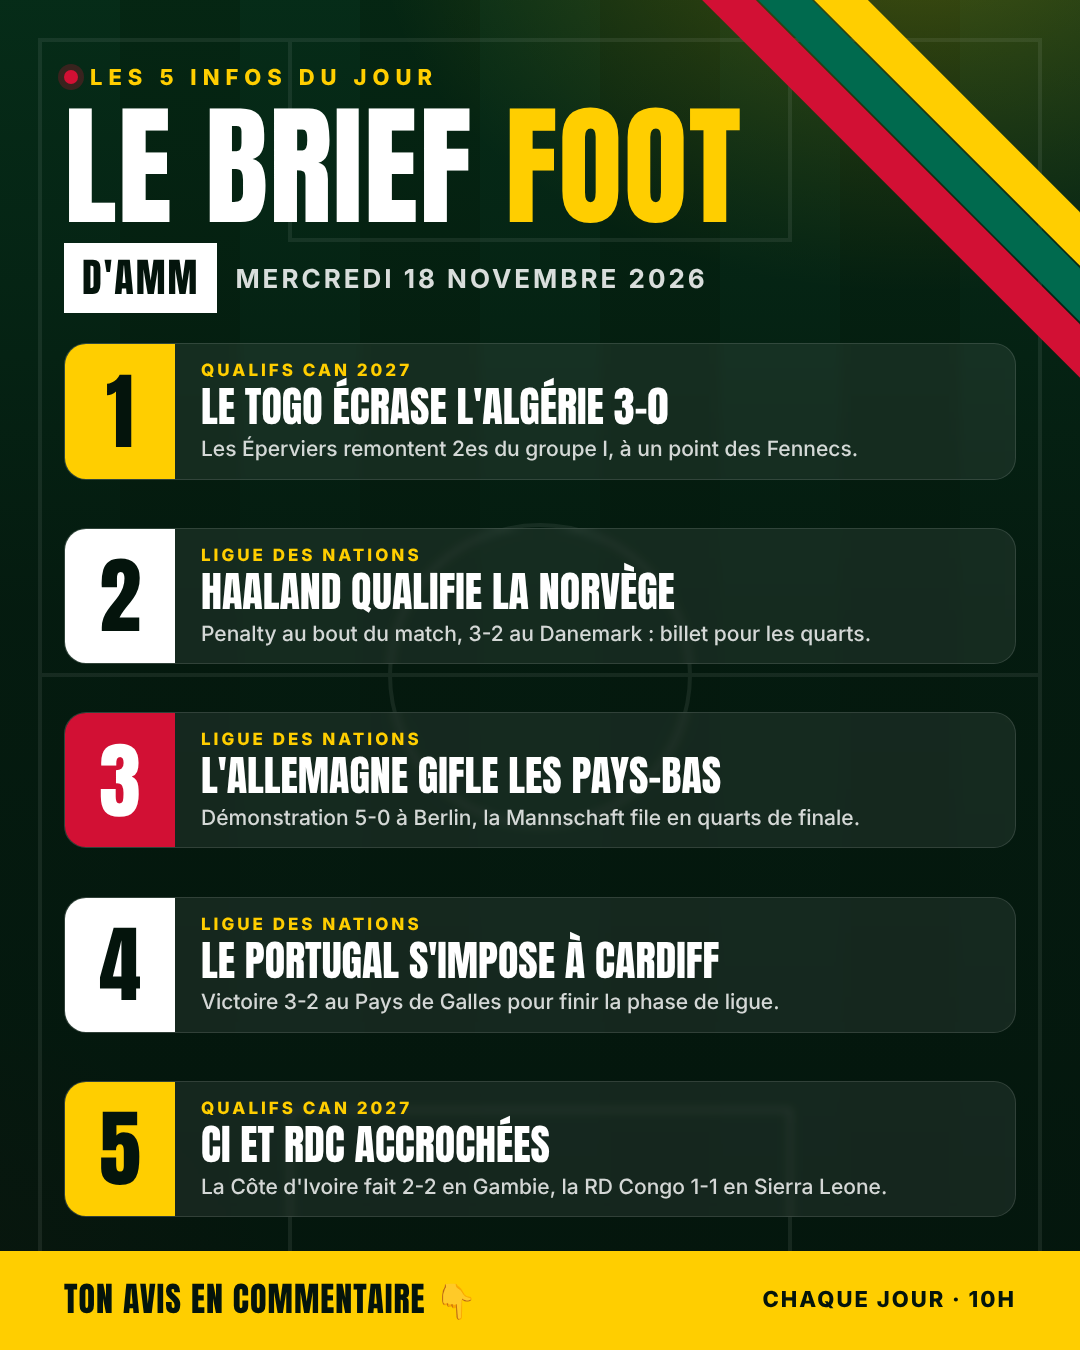
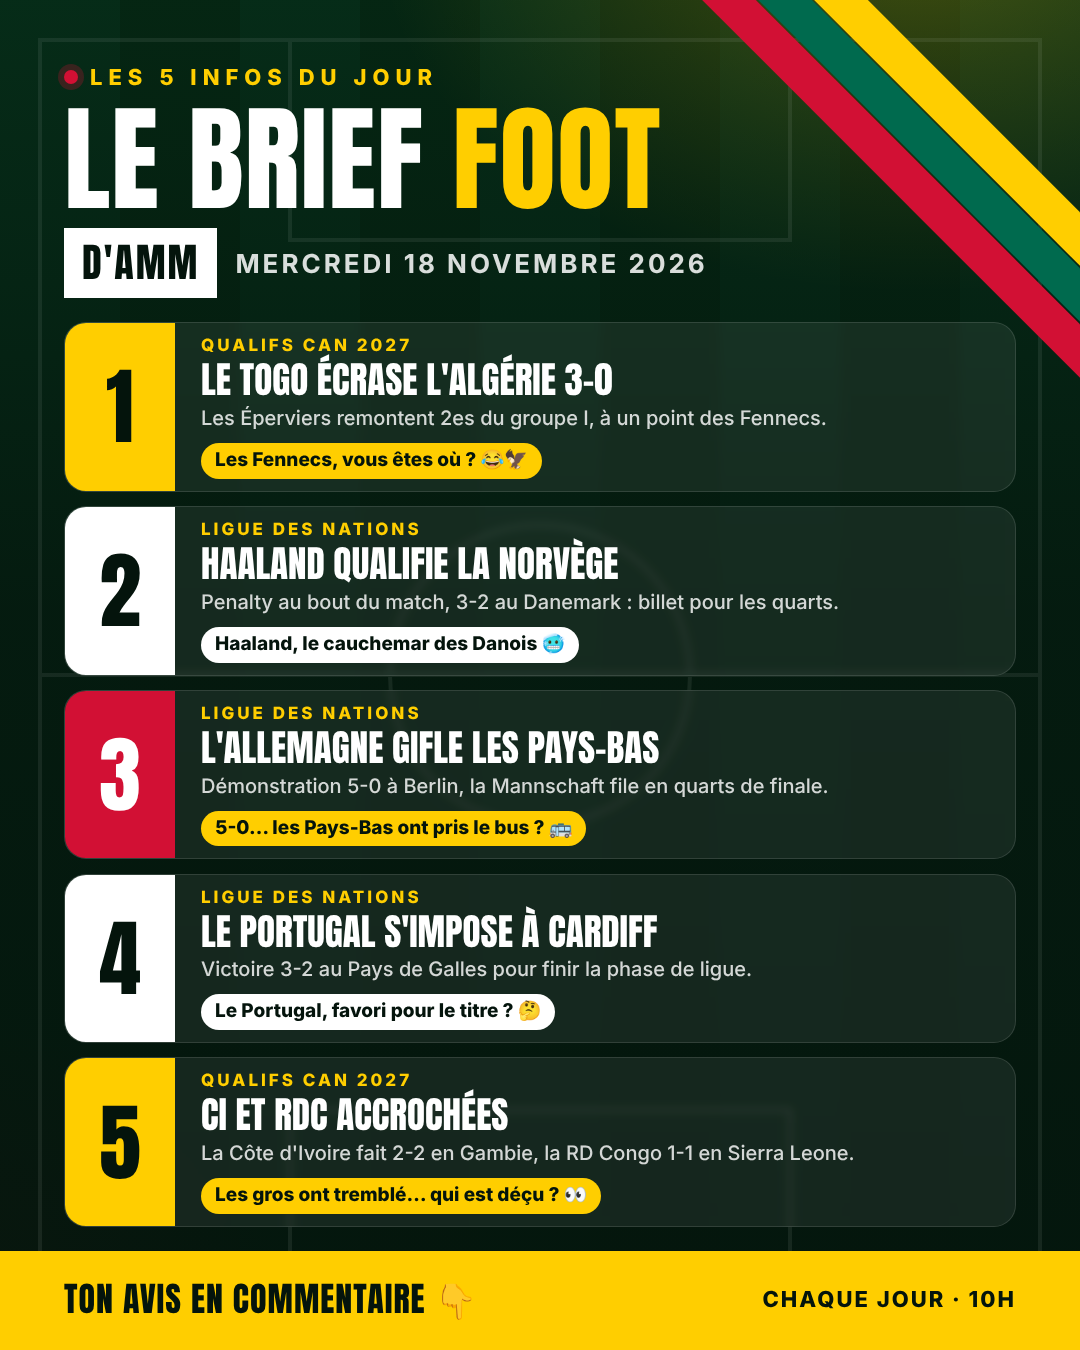
Affiche test v2 : petites phrases pour faire réagir
Claude-Session: https://claude.ai/code/session_01HynAV7bBRwUTDnQ55ogJ5y

Changed region(s): [[0.0611, 0.0622, 0.825, 0.9333]]

diff --git a/outil/affiche.html b/outil/affiche.html
@@ -43,7 +43,7 @@
   .kicker .dot { width: 14px; height: 14px; border-radius: 50%; background: #d21034; box-shadow: 0 0 0 6px rgba(210,16,52,.25); }
   h1 {
     font-family: 'Anton', sans-serif; font-weight: 400;
-    font-size: 132px; line-height: .95; letter-spacing: 1px; margin-top: 14px; text-transform: uppercase;
+    font-size: 116px; line-height: .95; letter-spacing: 1px; margin-top: 14px; text-transform: uppercase;
   }
   h1 .y { color: #ffce00; }
   .sub { display: flex; align-items: center; gap: 18px; margin-top: 14px; }
@@ -53,7 +53,7 @@
   }
   .sub .date { font-size: 26px; font-weight: 700; color: rgba(255,255,255,.85); text-transform: uppercase; letter-spacing: 3px; }
 
-  .list { margin: 30px 0 34px; display: flex; flex-direction: column; justify-content: space-between; flex: 1; }
+  .list { margin: 24px 0 24px; gap: 14px; display: flex; flex-direction: column; justify-content: space-between; flex: 1; }
   .item {
     display: flex; align-items: stretch; gap: 0;
     background: rgba(255,255,255,.07);
@@ -69,10 +69,16 @@
   .item:nth-child(3) .num { background: #d21034; color: #fff; }
   .item:nth-child(4) .num { background: #ffffff; }
   .item:nth-child(5) .num { background: #ffce00; }
-  .txt { padding: 16px 26px; display: flex; flex-direction: column; justify-content: center; gap: 6px; }
+  .txt { padding: 12px 26px; display: flex; flex-direction: column; justify-content: center; gap: 6px; }
   .tag { font-size: 17px; font-weight: 800; letter-spacing: 3px; text-transform: uppercase; color: #ffce00; }
-  .title { font-family: 'Anton', sans-serif; font-size: 42px; line-height: 1.02; text-transform: uppercase; }
-  .detail { font-size: 21px; line-height: 1.3; color: rgba(255,255,255,.82); font-weight: 500; }
+  .title { font-family: 'Anton', sans-serif; font-size: 37px; line-height: 1.02; text-transform: uppercase; }
+  .detail { font-size: 20px; line-height: 1.3; color: rgba(255,255,255,.82); font-weight: 500; }
+  .react {
+    align-self: flex-start; margin-top: 6px;
+    font-size: 19px; font-weight: 800; line-height: 1.2;
+    color: #04140c; background: #fff; padding: 6px 14px 7px; border-radius: 999px;
+  }
+  .item:nth-child(odd) .react { background: #ffce00; }
 
   .foot {
     margin: 0 -64px; padding: 22px 64px 26px;

diff --git a/outil/generer.py b/outil/generer.py
@@ -6,7 +6,7 @@ Format du JSON :
 {
   "date": "Mercredi 18 novembre 2026",
   "items": [
-    {"tag": "CAN 2027", "title": "Titre court", "detail": "Une phrase."},
+    {"tag": "CAN 2027", "title": "Titre court", "detail": "Une phrase.", "react": "Petite phrase pour faire réagir 🤔"},
     ... (5 éléments)
   ]
 }
@@ -27,9 +27,15 @@ def construire_html(data: dict) -> str:
     for i, it in enumerate(data["items"][:5], start=1):
         items.append(
             '<div class="item"><div class="num">%d</div><div class="txt">'
-            '<div class="tag">%s</div><div class="title">%s</div><div class="detail">%s</div>'
+            '<div class="tag">%s</div><div class="title">%s</div><div class="detail">%s</div>%s'
             "</div></div>"
-            % (i, html.escape(it["tag"]), html.escape(it["title"]), html.escape(it["detail"]))
+            % (
+                i,
+                html.escape(it["tag"]),
+                html.escape(it["title"]),
+                html.escape(it["detail"]),
+                '<div class="react">%s</div>' % html.escape(it["react"]) if it.get("react") else "",
+            )
         )
     return gabarit.replace("{{DATE}}", html.escape(data["date"])).replace("{{ITEMS}}", "".join(items))
 
